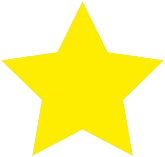
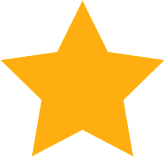
mejoras diseños by cygiel

diff --git a/app/components/infoTienda/valoracion/valoracion.module.css b/app/components/infoTienda/valoracion/valoracion.module.css
@@ -1,0 +1,31 @@
+.valoracionContainer {
+    display: flex;
+    align-items: center;
+    border: 2px solid #FF731D; /* Borde naranja alrededor del contenedor */
+    padding: 4px 8px; /* Aumento del espacio entre el borde y el contenido */
+    border-radius: 8px; /* Bordes redondeados */
+    background-color: #FFF7E9; /* Color de fondo amarillo claro */
+    max-width: 140px; /* Ajusta el ancho máximo del contenedor */
+    height: 36px; /* Altura ajustada del contenedor */
+    overflow: hidden; /* Asegura que los bordes redondeados se mantengan bien */
+  }
+  
+  .valoracionImg {
+    width: 24px; /* Tamaño reducido de la imagen */
+    height: 24px; /* Tamaño reducido de la imagen */
+    margin-right: 6px; /* Espacio entre la imagen y el número */
+  }
+  
+  .valoracionNum {
+    text-align: right; /* Alinea el texto a la derecha dentro del contenedor */
+    font-size: 18px; /* Tamaño del texto reducido para mantener el contenedor pequeño */
+    display: flex; /* Alinea el contenido del div */
+    align-items: center; /* Alinea el número verticalmente al centro */
+    margin: 0; /* Elimina el margen por defecto del párrafo */
+  }
+  
+  .valorRight {
+    margin-right: 4px; /* Espacio adicional a la derecha del texto */
+    font-weight: bold; /* Aplica negrita al texto */
+  }
+  

diff --git a/app/components/infoTienda/valoracion/index.js b/app/components/infoTienda/valoracion/index.js
@@ -30,12 +30,15 @@ const Valoracion = () => {
   }, [id]);
 
   if (valoracion === null) {
-    return <div>Cargando valoración...</div>;
+    return <div>...</div>;
   }
 
   return (
     <div className={styles.valoracionContainer}>
-      <p>Valoración: {valoracion}</p>
+      <img src='/estrella.png' alt='Estrella' className={styles.valoracionImg} />
+      <p className={styles.valoracionNum}>
+        <a className={styles.valorRight}>{valoracion}</a>
+      </p>
     </div>
   );
 };

diff --git a/app/components/infoTienda/direccionTienda/index.js b/app/components/infoTienda/direccionTienda/index.js
@@ -35,7 +35,8 @@ const DireccionTienda = () => {
 
   return (
     <div className={styles.direccionContainer}>
-      <p>Dirección: {direccion}</p>
+      
+      <p className={styles.txt}>Dirección:<a className={styles.subr}>{direccion}</a></p>
     </div>
   );
 };

diff --git a/app/view/infoTienda/page.js b/app/view/infoTienda/page.js
@@ -20,8 +20,10 @@ const InfoTienda = () => {
       {id && (
         <>
           <Header />
+          <div className={styles.direYval}>
           <DireccionTienda/>
           <Valoracion />
+          </div>
         </>
       )}
       <h1>ID: {id}</h1>

diff --git a/app/view/infoTienda/info.module.css b/app/view/infoTienda/info.module.css
@@ -1,0 +1,7 @@
+.direYval {
+    display: flex;
+    justify-content: space-between; /* Espacio entre los elementos */
+    align-items: center; /* Alinea los elementos verticalmente al centro */
+    padding: 10px; /* Espacio interno opcional */
+  }
+  

diff --git a/app/components/infoTienda/direccionTienda/direccionTienda.module.css b/app/components/infoTienda/direccionTienda/direccionTienda.module.css
@@ -1,5 +1,12 @@
 .direccionContainer {
     font-size: 16px;
     color: #333;
+    padding-left: 2%;
   }
   
+  .subr{
+    text-decoration: underline;
+  }
+  .txt{
+    font-weight: bold;
+  }
